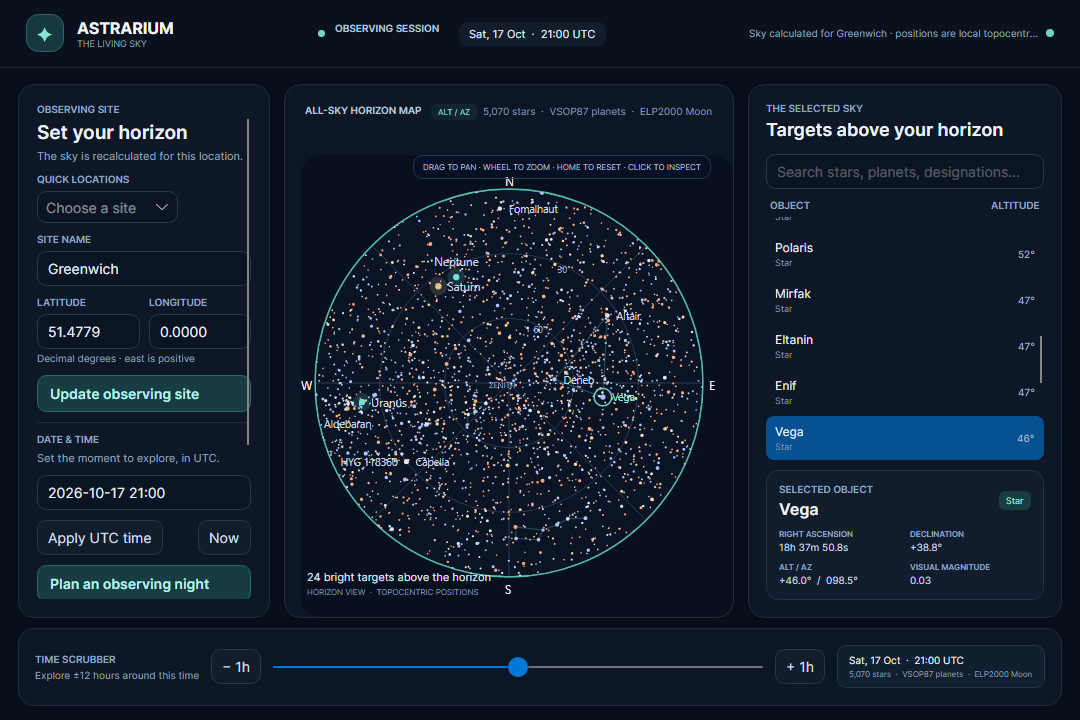
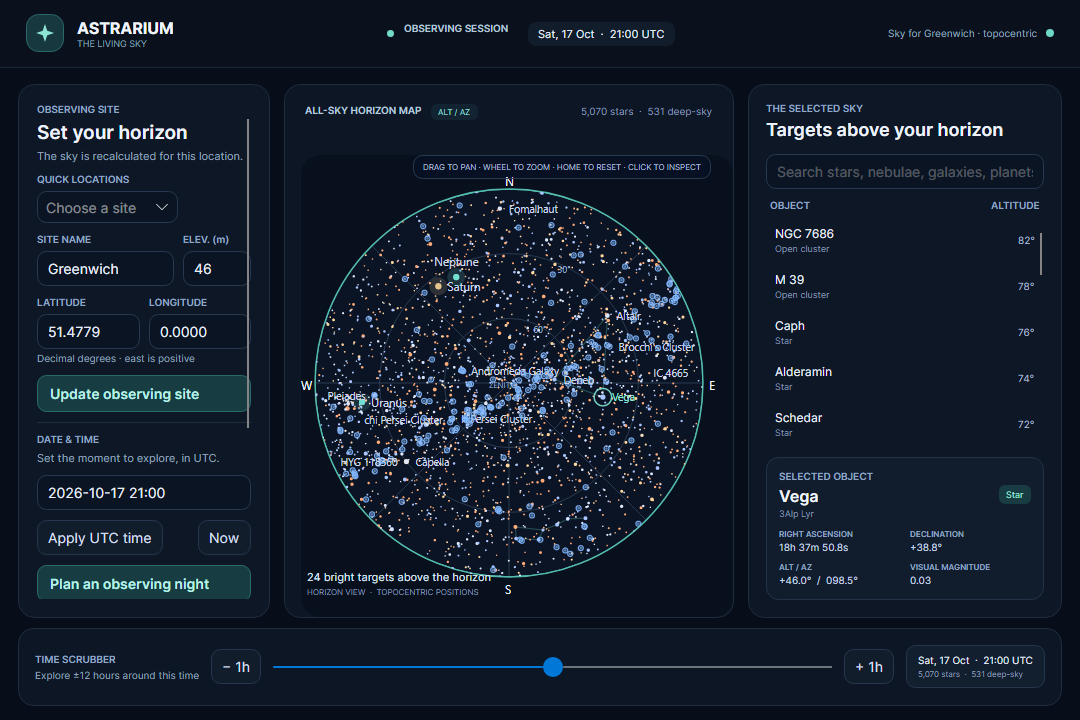
Publish Preview 10 migration evidence

diff --git a/README.md b/README.md
@@ -6,7 +6,7 @@ This repository contains a cross-platform Avalonia port of [Astrarium](https://g
 
 The observing workflow loads 5,070 naked-eye stars and 531 curated bright deep-sky objects, computes local sky positions with Astrarium's VSOP87/ELP2000 algorithms, and draws a horizon chart with featured asterisms and solar-system bodies. Search accepts common names and spaced or compact Messier, NGC, and IC designations. It supports quick sites or custom coordinates with elevation, UTC time changes, and persisted observer/time/layer choices, plus object selection, keyboard navigation, drag-to-pan, wheel zoom, Home reset, chart-layer toggles, and position details. Its observation planner searches a UTC observing window and reports astronomical darkness plus star, deep-sky, and solar-system target windows filtered by minimum altitude, Sun altitude, magnitude, and minimum duration; choosing a result jumps to that target's best sampled time. The deep-sky data is an offline, reproducibly curated OpenNGC subset under CC BY-SA 4.0; see [Data notices](docs/DATA_NOTICES.md).
 
-The current [Preview 9 release](https://github.com/shobhit1kapoor/astrarium-avalonia-port-challenge/releases/tag/v0.1.0-preview.9) packages the shared Avalonia desktop app and static WebAssembly host. Try the [live browser demo](https://shobhit1kapoor.github.io/astrarium-avalonia-port-challenge/); the downloadable browser build also works offline after download and keeps preferences in browser storage when available. Preview 9 was built from commit `29fe80c` and passed all 111 tests, self-contained publishing, and native-window launch checks on Windows x64, Linux x64, macOS Intel, and Apple silicon in [desktop CI run #39045408639](https://github.com/shobhit1kapoor/astrarium-avalonia-port-challenge/actions/runs/39045408639). The WebAssembly site passed its separate build and package checks in [browser CI run #39045408637](https://github.com/shobhit1kapoor/astrarium-avalonia-port-challenge/actions/runs/39045408637), which deployed the public Pages demo from the same commit. The chart canvas has a browser-accessible name and interaction summary; WebAssembly still exposes the app as one canvas rather than separate browser controls. The current view includes custom observing-site elevation and a platform-consistent vector mark. Desktop CI uses hosted runners; macOS/Linux were not physically tested on local hardware.
+The current [Preview 10 release](https://github.com/shobhit1kapoor/astrarium-avalonia-port-challenge/releases/tag/v0.1.0-preview.10) packages the shared Avalonia desktop app and static WebAssembly host, including 531 curated deep-sky objects in search, the horizon chart, and the observing planner. It was built from commit `c498c2b`. All 115 tests pass locally in Debug and Release, and the isolated Release build completes with zero warnings or errors. [Desktop CI run #39070451360](https://github.com/shobhit1kapoor/astrarium-avalonia-port-challenge/actions/runs/39070451360) passed the solution tests, self-contained publishing, and native-window launch checks on Windows x64, Linux x64, macOS Intel, and Apple silicon. [Browser CI run #39070451439](https://github.com/shobhit1kapoor/astrarium-avalonia-port-challenge/actions/runs/39070451439) passed the WebAssembly build, packaging, and Pages deployment. The [live browser demo](https://shobhit1kapoor.github.io/astrarium-avalonia-port-challenge/) was checked on this release: its catalog count, M31 search/Andromeda selection, and planner view work. The chart canvas has a browser-accessible name and interaction summary; WebAssembly still exposes the app as one canvas rather than separate browser controls. Desktop CI uses hosted runners; macOS/Linux were not physically tested on local hardware.
 
 ## Download and run
 
@@ -14,13 +14,13 @@ The desktop archives are self-contained .NET 10 builds; no .NET installation is 
 
 | Platform | Download | Launch |
 | --- | --- | --- |
-| Windows x64 | [astrarium-windows-x64.tar.gz](https://github.com/shobhit1kapoor/astrarium-avalonia-port-challenge/releases/download/v0.1.0-preview.9/astrarium-windows-x64.tar.gz) | `Astrarium.Avalonia.exe` |
-| Linux x64 | [astrarium-linux-x64.tar.gz](https://github.com/shobhit1kapoor/astrarium-avalonia-port-challenge/releases/download/v0.1.0-preview.9/astrarium-linux-x64.tar.gz) | `./Astrarium.Avalonia` in a desktop session |
-| macOS Intel | [astrarium-macos-x64.tar.gz](https://github.com/shobhit1kapoor/astrarium-avalonia-port-challenge/releases/download/v0.1.0-preview.9/astrarium-macos-x64.tar.gz) | `./Astrarium.Avalonia` |
-| macOS Apple silicon | [astrarium-macos-arm64.tar.gz](https://github.com/shobhit1kapoor/astrarium-avalonia-port-challenge/releases/download/v0.1.0-preview.9/astrarium-macos-arm64.tar.gz) | `./Astrarium.Avalonia` |
-| Browser (WebAssembly) | [astrarium-browser-wasm.tar.gz](https://github.com/shobhit1kapoor/astrarium-avalonia-port-challenge/releases/download/v0.1.0-preview.9/astrarium-browser-wasm.tar.gz) | Serve extracted files over HTTP, then open in a WebAssembly-capable browser |
+| Windows x64 | [astrarium-windows-x64.tar.gz](https://github.com/shobhit1kapoor/astrarium-avalonia-port-challenge/releases/download/v0.1.0-preview.10/astrarium-windows-x64.tar.gz) | `Astrarium.Avalonia.exe` |
+| Linux x64 | [astrarium-linux-x64.tar.gz](https://github.com/shobhit1kapoor/astrarium-avalonia-port-challenge/releases/download/v0.1.0-preview.10/astrarium-linux-x64.tar.gz) | `./Astrarium.Avalonia` in a desktop session |
+| macOS Intel | [astrarium-macos-x64.tar.gz](https://github.com/shobhit1kapoor/astrarium-avalonia-port-challenge/releases/download/v0.1.0-preview.10/astrarium-macos-x64.tar.gz) | `./Astrarium.Avalonia` |
+| macOS Apple silicon | [astrarium-macos-arm64.tar.gz](https://github.com/shobhit1kapoor/astrarium-avalonia-port-challenge/releases/download/v0.1.0-preview.10/astrarium-macos-arm64.tar.gz) | `./Astrarium.Avalonia` |
+| Browser (WebAssembly) | [astrarium-browser-wasm.tar.gz](https://github.com/shobhit1kapoor/astrarium-avalonia-port-challenge/releases/download/v0.1.0-preview.10/astrarium-browser-wasm.tar.gz) | Serve extracted files over HTTP, then open in a WebAssembly-capable browser |
 
-SHA-256 hashes for all five archives are in [`SHA256SUMS.txt`](https://github.com/shobhit1kapoor/astrarium-avalonia-port-challenge/releases/download/v0.1.0-preview.9/SHA256SUMS.txt). Desktop builds are portable archives rather than installers. The live demo and downloadable browser archive are static WebAssembly sites with no backend; the archive can also be served locally over HTTP.
+SHA-256 hashes for all five archives are in [`SHA256SUMS.txt`](https://github.com/shobhit1kapoor/astrarium-avalonia-port-challenge/releases/download/v0.1.0-preview.10/SHA256SUMS.txt). Desktop builds are portable archives rather than installers. The live demo and downloadable browser archive are static WebAssembly sites with no backend; the archive can also be served locally over HTTP.
 
 ## Try the observing flow
 
@@ -31,17 +31,17 @@ SHA-256 hashes for all five archives are in [`SHA256SUMS.txt`](https://github.co
 
 ## Before and after
 
-The original screenshot is linked from the pinned upstream repository revision; it is not copied into this repository. The Avalonia image is a deterministic render of the production main window at its 1,080 × 720 minimum logical size; the packaged Windows app was launched and reviewed separately.
+The original screenshot is linked from the pinned upstream repository revision; it is not copied into this repository. The Avalonia images are headless renders of the production main and planner windows at their 1,080 × 720 and 780 × 600 minimum logical sizes; the packaged Windows app was launched and reviewed separately.
 
 | Original Astrarium (WPF) | Astrarium for Avalonia |
 | --- | --- |
-| <img src="https://github.com/Astrarium/Astrarium/blob/75cbdda75b0e6a51bbf601d08ab89bc471e6038a/Screenshot.png?raw=true" alt="Original Astrarium screenshot" width="900"> | <img src="docs/images/astrarium-avalonia-current.png" alt="Astrarium Avalonia screenshot with the observing-night planner control" width="900"> |
+| <img src="https://github.com/Astrarium/Astrarium/blob/75cbdda75b0e6a51bbf601d08ab89bc471e6038a/Screenshot.png?raw=true" alt="Original Astrarium screenshot" width="900"> | <img src="docs/images/astrarium-avalonia-current.png" alt="Astrarium Avalonia screenshot with a curated deep-sky catalog and observing-night planner" width="900"> |
 
 ### Observation planner
 
 The Avalonia planner carries over the upstream planner's central observing filters for the objects included in this port. Plan times are UTC. The current implementation samples the calculated sky every 10 minutes by default and linearly interpolates window edges, so event times are estimates at that resolution.
 
-<img src="docs/images/astrarium-avalonia-planner.jpg" alt="Astrarium observation planner with darkness and recommended target windows" width="900">
+<img src="docs/images/astrarium-avalonia-planner-current.png" alt="Astrarium observation planner with darkness and recommended target windows for deep-sky and solar-system objects" width="900">
 
 ## Migration report
 
@@ -53,7 +53,7 @@ The port preserves a useful observing loop—set a site and UTC time, inspect an
 
 ### Migration effort and cost
 
-This is a solo, AI-assisted port. The first public implementation commit was made at **11:57:17 UTC on October 17, 2026**. Preview 3 was published at **12:46:32 UTC** (49 minutes 15 seconds later), Preview 4 with the planner at **13:17:39 UTC** (1 hour 20 minutes 22 seconds later), Preview 5 at **13:54:05 UTC** (1 hour 56 minutes 48 seconds later), Preview 6 with the shared browser host at **14:38:08 UTC** (2 hours 40 minutes 51 seconds later), Preview 7 with the updated shared app and downloadable browser build at **14:52:50 UTC** (2 hours 55 minutes 33 seconds later), Preview 8 with custom site elevation at **15:16:56 UTC** (3 hours 19 minutes 39 seconds later), and Preview 9 with the browser chart's accessible name at **15:36:19 UTC** (3 hours 39 minutes 2 seconds later). These are elapsed wall-clock windows, not active person-hours; active hours were not tracked. No paid API, dataset, or commercial UI component is required. The app is offline by default and uses the upstream MIT algorithms plus the separately licensed HYG subset.
+This is a solo, AI-assisted port. The first public implementation commit was made at **11:57:17 UTC on October 17, 2026**. Preview 3 was published at **12:46:32 UTC** (49 minutes 15 seconds later), Preview 4 with the planner at **13:17:39 UTC** (1 hour 20 minutes 22 seconds later), Preview 5 at **13:54:05 UTC** (1 hour 56 minutes 48 seconds later), Preview 6 with the shared browser host at **14:38:08 UTC** (2 hours 40 minutes 51 seconds later), Preview 7 with the updated shared app and downloadable browser build at **14:52:50 UTC** (2 hours 55 minutes 33 seconds later), Preview 8 with custom site elevation at **15:16:56 UTC** (3 hours 19 minutes 39 seconds later), Preview 9 with the browser chart's accessible name at **15:36:19 UTC** (3 hours 39 minutes 2 seconds later), and Preview 10 with the curated deep-sky catalog at **21:25:19 UTC** (9 hours 28 minutes 2 seconds later). These are elapsed wall-clock windows, not active person-hours; active hours were not tracked. No paid API, dataset, or commercial UI component is required. The app is offline by default and uses the upstream MIT algorithms plus separately licensed HYG and OpenNGC subsets.
 
 ### What was harder than expected
 
@@ -68,7 +68,7 @@ This is a solo, AI-assisted port. The first public implementation commit was mad
 
 ### Current limits
 
-This port includes 5,070 naked-eye stars, 531 curated bright deep-sky objects, the Sun, Moon, and seven planets, but not the full upstream object/plugin catalog. The planner includes deep-sky targets and does not yet model object-specific observing constraints, Moon separation, weather, saved/imported plans, or telescope integration. It uses 10-minute default samples with linear boundary interpolation. The chart uses a custom polar horizon projection with a few featured asterisms; deep-sky marker extents are visual approximations. The browser version is a static WebAssembly site with no backend or server-side state, available as a hosted Pages demo and a downloadable package. Its renderer exposes one canvas in the browser accessibility tree; Preview 9 names that canvas and summarizes its interactions, but individual chart controls are not exposed as separate browser controls. Desktop Avalonia control names are covered by UI tests; no physical screen-reader session is claimed. The Windows app and both planner/main windows have been visually exercised locally, including their declared minimum dimensions at the host's default display scale. Linux/macOS launch checks are runner-based, and no physical test devices for those systems are claimed.
+This port includes 5,070 naked-eye stars, 531 curated bright deep-sky objects, the Sun, Moon, and seven planets, but not the full upstream object/plugin catalog. The planner includes deep-sky targets and does not yet model object-specific observing constraints, Moon separation, weather, saved/imported plans, or telescope integration. It uses 10-minute default samples with linear boundary interpolation. The chart uses a custom polar horizon projection with a few featured asterisms; deep-sky marker extents are visual approximations. The browser version is a static WebAssembly site with no backend or server-side state, available as a hosted Pages demo and a downloadable package. Its renderer exposes one named canvas with an interaction summary; individual chart controls are not exposed as separate browser controls. Desktop Avalonia control names are covered by UI tests; no physical screen-reader session is claimed. The Windows app and both planner/main windows have been visually exercised locally, including their declared minimum dimensions at the host's default display scale. Linux/macOS launch checks are runner-based, and no physical test devices for those systems are claimed.
 
 ## Run from source
 
@@ -84,9 +84,9 @@ Install the .NET 10 SDK, then run `dotnet run --project src/Astrarium.Avalonia/A
 
 ## Verification so far
 
-- Preview 9's exact four desktop archives passed all 111 tests, self-contained publishing, packaging, and `Window.Opened` checks on `win-x64`, `linux-x64`, `osx-x64`, and `osx-arm64` in [desktop CI run #39045408639](https://github.com/shobhit1kapoor/astrarium-avalonia-port-challenge/actions/runs/39045408639). Those artifacts are published in [Preview 9](https://github.com/shobhit1kapoor/astrarium-avalonia-port-challenge/releases/tag/v0.1.0-preview.9).
-- The separate browser workflow installs the WebAssembly workload, publishes Avalonia with native Skia rendering assets, checks the static output, packages the site, and deploys Pages in [run #39045408637](https://github.com/shobhit1kapoor/astrarium-avalonia-port-challenge/actions/runs/39045408637). The deployed chart canvas has a descriptive accessibility name; the tree still represents the app as one canvas rather than separate browser controls.
-- SHA-256 digests reported by the GitHub release service for all five Preview 9 archives match the published [`SHA256SUMS.txt`](https://github.com/shobhit1kapoor/astrarium-avalonia-port-challenge/releases/download/v0.1.0-preview.9/SHA256SUMS.txt). The [hosted browser demo](https://shobhit1kapoor.github.io/astrarium-avalonia-port-challenge/) is deployed from `main` and uses the same application source as Preview 9.
+- Preview 10's exact four desktop archives passed all 115 tests, self-contained publishing, packaging, and `Window.Opened` checks on `win-x64`, `linux-x64`, `osx-x64`, and `osx-arm64` in [desktop CI run #39070451360](https://github.com/shobhit1kapoor/astrarium-avalonia-port-challenge/actions/runs/39070451360). Those artifacts are published in [Preview 10](https://github.com/shobhit1kapoor/astrarium-avalonia-port-challenge/releases/tag/v0.1.0-preview.10) from source commit `c498c2b`.
+- The separate browser workflow installed the WebAssembly workload, published Avalonia with native Skia rendering assets, checked the static output, packaged the site, and deployed Pages in [run #39070451439](https://github.com/shobhit1kapoor/astrarium-avalonia-port-challenge/actions/runs/39070451439). The hosted build was manually checked for the 531-object count, M31 search/selection, and planner view; the accessibility tree still exposes a named canvas rather than separate browser controls.
+- SHA-256 digests reported by the GitHub release service for all five Preview 10 archives match the published [`SHA256SUMS.txt`](https://github.com/shobhit1kapoor/astrarium-avalonia-port-challenge/releases/download/v0.1.0-preview.10/SHA256SUMS.txt). The [hosted browser demo](https://shobhit1kapoor.github.io/astrarium-avalonia-port-challenge/) is deployed from `main` and uses the same observing workflow as Preview 10.
 - The actual main and planner windows are rendered at 100%, 125%, 150%, and 200% with Avalonia's headless platform at their minimum logical sizes. The main window is also checked at its 1,500 × 960 default logical size. Tests check accessible names on interactive fields and lists, finite layout bounds, stable logical client sizes, and raster dimensions that track the requested scale; captures at fractional and 200% scales were visually reviewed. This simulates Avalonia scaling and does not verify native Windows monitor changes.
 - The packaged Windows x64 Preview 4 app and planner opened locally. The planner generated darkness and target windows, and a recommendation returned to the chart at its best sampled UTC time. Minimum dimensions were reviewed for the 1,080 × 720 main window and 780 × 600 planner. Search, empty search, map/list selection, arrow navigation, pan, zoom, and reset were checked on the Windows host. Preview 5 carries the added accessibility names and passed the hosted Windows window-open check.
 - Linux and macOS launch checks are hosted-runner-only; no physical devices are claimed. Native Windows monitor scaling has not been checked.

diff --git a/docs/ASTRARIUM_PORT_PLAN.md b/docs/ASTRARIUM_PORT_PLAN.md
@@ -20,9 +20,9 @@ The challenge announcement says the same codebase on Windows, macOS, and Linux i
 
 ## Baseline at the end of October 17
 
-**Implemented:** separate portable algorithm, core, and Avalonia UI projects; bundled licensed HYG magnitude-6 subset; actual topocentric positions for 5,070 stars, Sun, Moon, and seven planets; a polar horizon chart with featured asterisms, collision-aware labels, compass rotation, drag pan, wheel zoom, and Home reset; location presets plus custom latitude, longitude, and elevation entry; UTC date/time and 24-hour scrubber; search with an explicit empty state; object selection and position details; keyboard arrow navigation; separate star/asterism/body chart layers; and atomic, versioned local persistence for observer site, UTC time, and layer visibility. Preferences use required JSON fields, a bounded read, a safe fallback for damaged files, and a durable temporary-file replacement. The restored observation planner reports astronomical-darkness intervals and target windows filtered by minimum altitude, maximum Sun altitude, magnitude, and minimum duration; a result returns to the chart at its best sampled instant. Planner windows use bounded time samples with linearly interpolated edges, not exact event solving. A manual close/relaunch check restored a custom Mauna Kea site, a changed UTC time, and a hidden-body layer. All 111 tests pass locally and on each hosted desktop runner, including headless layout renders of both production windows at scales 1.0, 1.25, 1.5, and 2.0, main-window layout checks at its 1,500 × 960 default size, and accessibility-name assertions for input, list, and chart controls; the solution builds with zero warnings/errors. The packaged Windows Release archive has been launched and visually reviewed.
+**Implemented:** separate portable algorithm, core, and Avalonia UI projects; bundled licensed HYG magnitude-6 subset; a reproducible 531-object OpenNGC deep-sky subset; actual topocentric positions for 5,070 stars, deep-sky objects, the Sun, Moon, and seven planets; a polar horizon chart with featured asterisms, collision-aware labels, compass rotation, drag pan, wheel zoom, and Home reset; location presets plus custom latitude, longitude, and elevation entry; UTC date/time and 24-hour scrubber; search with an explicit empty state and compact catalog aliases; object selection and position details; keyboard arrow navigation; separate star/deep-sky/asterism/body chart layers; and atomic, versioned local persistence for observer site, UTC time, and layer visibility. Preferences use required JSON fields, a bounded read, a safe fallback for damaged files, and a durable temporary-file replacement. The observing planner reports astronomical-darkness intervals and star, deep-sky, and solar-system target windows filtered by minimum altitude, maximum Sun altitude, magnitude, and minimum duration; a result returns to the chart at its best sampled instant. Planner windows use bounded time samples with linearly interpolated edges, not exact event solving. A manual close/relaunch check restored a custom Mauna Kea site, a changed UTC time, and a hidden-body layer. All 115 tests pass locally in Debug and Release and on each hosted desktop runner, including headless renders of both production windows at scales 1.0, 1.25, 1.5, and 2.0, main-window layout checks at its 1,500 × 960 default size, and visible-control accessibility-name assertions. The isolated Release build has zero warnings/errors; Preview 10 passes four-RID build, publish, and window-open checks. The packaged Windows Release archive has been launched and visually reviewed.
 
-**Still unproven or incomplete:** full upstream plugin/catalog parity, saved/imported observation plans, deep-sky targets, weather or Moon-separation scoring, browser screen-reader interaction beyond its named canvas, native Windows monitor-scale changes, and physical Linux/macOS device checks. Both windows were rendered through Avalonia headless at their declared minimum logical dimensions at 1.0, 1.25, 1.5, and 2.0 scaling; the 1.25 and 2.0 captures were visually reviewed. The main window is also layout-checked at its 1,500 × 960 default size. These renders do not validate actual monitor DPI behavior. Preview 9 source commit `29fe80c` passed all 111 tests, self-contained publishing, packaging, and actual `Window.Opened` checks on `win-x64`, `linux-x64`, `osx-x64`, and `osx-arm64` in [CI run #39045408639](https://github.com/shobhit1kapoor/astrarium-avalonia-port-challenge/actions/runs/39045408639); those exact packages are published in [Preview 9](https://github.com/shobhit1kapoor/astrarium-avalonia-port-challenge/releases/tag/v0.1.0-preview.9). The WebAssembly build and Pages deployment passed in [run #39045408637](https://github.com/shobhit1kapoor/astrarium-avalonia-port-challenge/actions/runs/39045408637), and the current hosted demo's chart → planner → chart flow has been exercised. The demo is static and has no backend. The packaged Windows Preview 4 app and planner were launched locally; later Windows and other OS checks are runner-based. Test counts do not establish astronomical accuracy for every object/date; the inherited low-accuracy Carrington fit has an explicit 2021 residual check.
+**Still unproven or incomplete:** full upstream plugin/catalog parity, saved/imported observation plans, weather or Moon-separation scoring, browser screen-reader interaction beyond its named canvas, native Windows monitor-scale changes, and physical Linux/macOS device checks. Both windows were rendered through Avalonia headless at their declared minimum logical dimensions at 1.0, 1.25, 1.5, and 2.0 scaling; the current production-window snapshots were visually reviewed. The main window is also layout-checked at its 1,500 × 960 default size. These renders do not validate actual monitor DPI behavior. Preview 10 source commit `c498c2b` passed all 115 tests, self-contained publishing, packaging, and actual `Window.Opened` checks on `win-x64`, `linux-x64`, `osx-x64`, and `osx-arm64` in [CI run #39070451360](https://github.com/shobhit1kapoor/astrarium-avalonia-port-challenge/actions/runs/39070451360); those exact packages are published in [Preview 10](https://github.com/shobhit1kapoor/astrarium-avalonia-port-challenge/releases/tag/v0.1.0-preview.10). The WebAssembly build and Pages deployment passed in [run #39070451439](https://github.com/shobhit1kapoor/astrarium-avalonia-port-challenge/actions/runs/39070451439). The current hosted demo's deep-sky search/selection and planner view have been exercised. The demo is static and has no backend. The packaged Windows Preview 4 app and planner were launched locally; later Windows and other OS checks are runner-based. Test counts do not establish astronomical accuracy for every object/date; the inherited low-accuracy Carrington fit has an explicit 2021 residual check.
 
 **Remaining checks:** verify native Windows monitor-scale behavior if the environment permits, and submit the completed entry before October 23. Both windows have minimum-size headless layout renders at common scales; native Windows and physical macOS/Linux device checks remain unverified, and runner-only evidence is labeled honestly.
 
@@ -80,10 +80,10 @@ The chart renderer is an Avalonia control that consumes immutable chart data fro
 
 | Date | Work | Exit evidence |
 |---|---|---|
-| Oct 17 | Finish the observing planner vertical slice, reconcile challenge criteria, review the current Windows UI, add scaled-layout/accessibility checks, and publish the current preview. | **Completed:** 111 tests locally and in the Preview 9 hosted matrix, zero-warning Release build, four-RID launch checks, Preview 9 artifacts/checksums, production-window screenshots, headless renders at four scales plus the main-window default size, and a hosted WebAssembly demo with a named chart canvas. |
+| Oct 17 | Finish the observing planner vertical slice, reconcile challenge criteria, review the current Windows UI, add scaled-layout/accessibility checks, and publish the current preview. | **Completed:** 115 tests pass locally in Debug and Release and in the Preview 10 desktop matrix; zero-warning Release build, four-RID launch checks, Preview 10 artifacts/checksums, refreshed production-window screenshots, headless renders at four scales plus the main-window default size, and a hosted WebAssembly demo with a named chart canvas and 531 deep-sky objects. |
 | Oct 18 | Check native Windows monitor scaling if the environment permits; review invalid/empty-plan behavior and accessibility; validate representative observing cases. | Findings fixed or recorded; simulated scale layout and default-scale dimensions remain verified. |
 | Oct 19 | Review astronomy boundary cases, chart projection, dates and locations; run a clean-checkout build and audit dependencies/data notices. | No blocker in the observing/planning workflow; all remaining accuracy limits stated. |
-| Oct 20 | Freeze features; inspect current release artifacts and README links from a clean download; prepare a short judge-facing demonstration. | Preview 9 binaries and hashes agree with app source commit `29fe80c`; README links, screenshots, migration details, and the hosted demo are current. |
+| Oct 20 | Freeze features; inspect current release artifacts and README links from a clean download; prepare a short judge-facing demonstration. | Preview 10 binaries and hashes agree with app source commit `c498c2b`; README links, screenshots, migration details, and the hosted demo are current. |
 | Oct 21 | Review the entry against all five judging dimensions; finalize concise migration account and gather missing form details. | Judge-facing evidence complete except final form submission. |
 | Oct 22 | Reserve time for the official submission form and handle any access or formatting issue; avoid unnecessary release churn. | Entry ready to submit, with a full day of contingency. |
 | Oct 23 | Submit the official entry with time reserved for form issues; stop feature work early enough to beat the 23:59 UTC cutoff. | Submission confirmation saved before deadline. |
@@ -105,7 +105,7 @@ The schedule is aggressive. If a release blocker appears, cut optional features 
 - [ ] Validate date/time timezone and location coordinate conventions; test representative northern and southern latitudes and dates.
 - [ ] Verify chart projection near the horizon/zenith and across angle wraparound.
 - [x] Verify search, selection, persistence, keyboard paths, and recovery from malformed location input.
-- [ ] Verify chart resize and the minimum window size at common non-default display scaling levels.
+- [x] Verify chart and planner layout bounds, stable logical sizes, and rendered frames at 100%, 125%, 150%, and 200% Avalonia headless scaling at their minimum logical sizes. Native per-monitor behavior remains a separate unchecked check.
 - [x] Build Windows, macOS, and Linux; launch the artifacts on hosted runners; record the runtime matrix and note that only Windows was also tested on a physical device.
 - [ ] Scan dependencies/assets and check all notices and license conditions.
 
@@ -115,5 +115,5 @@ The schedule is aggressive. If a release blocker appears, cut optional features 
 - [x] Migrated screenshots captured from the running Avalonia app and planner.
 - [x] README covers observed elapsed migration window, retained code, rewrites, surprises, compromises, platform differences, known limits, and build/run instructions.
 - [x] Public source repository and OSI-approved MIT code license.
-- [x] Downloadable builds for the current planner and custom-site-elevation source on each target OS, with checksums in [Preview 9](https://github.com/shobhit1kapoor/astrarium-avalonia-port-challenge/releases/tag/v0.1.0-preview.9).
+- [x] Downloadable builds for the current planner, custom-site-elevation, and deep-sky source on each target OS, with checksums in [Preview 10](https://github.com/shobhit1kapoor/astrarium-avalonia-port-challenge/releases/tag/v0.1.0-preview.10).
 - [ ] Official entry form submission confirmation.

diff --git a/docs/PORT_CHALLENGE_PLAN.md b/docs/PORT_CHALLENGE_PLAN.md
@@ -10,9 +10,9 @@ Deliver a credible, polished Avalonia port or rewrite of an application that exi
 - [x] Confirm the upstream MIT source license permits this open-source port; separately record the HYG catalog's CC BY-SA 4.0 obligations.
 - [x] Choose the open-source entry track.
 - [x] Keep the entry to one human contributor, within the three-person limit.
-- [x] Produce self-contained builds for Windows x64, Linux x64, macOS Intel, and macOS Apple silicon with the planner, custom site elevation, and accessible desktop control names in [Preview 9](https://github.com/shobhit1kapoor/astrarium-avalonia-port-challenge/releases/tag/v0.1.0-preview.9). Preview 9 passed 111 tests and native window-open checks on all four hosted runners; the Windows Preview 4 archive and planner were also launched and reviewed locally.
+- [x] Produce self-contained builds for Windows x64, Linux x64, macOS Intel, and macOS Apple silicon with the planner, custom site elevation, the curated deep-sky catalog, and accessible desktop control names in [Preview 10](https://github.com/shobhit1kapoor/astrarium-avalonia-port-challenge/releases/tag/v0.1.0-preview.10). Preview 10 passed all 115 tests and native window-open checks on all four hosted runners; the Windows app and both production windows were also reviewed locally.
 - [x] Add a separately built static WebAssembly host using the shared Avalonia UI, verify the sky/planner/recommendation flow, and deploy the app as a [public Pages demo](https://shobhit1kapoor.github.io/astrarium-avalonia-port-challenge/). The browser target supplements the desktop builds; it is static and has no backend.
-- [x] Capture before-and-after screenshots; the source screenshot is linked at the pinned upstream revision rather than redistributed, and the Avalonia image is a deterministic render of the production window. The packaged Windows app was separately launched and reviewed.
+- [x] Capture before-and-after screenshots; the source screenshot is linked at the pinned upstream revision rather than redistributed, and the Avalonia images are headless renders of the production main and planner windows. The packaged Windows app was separately launched and reviewed.
 - [x] Write a migration report covering elapsed release window and cost, what carried over, redesign, surprises, compromises, and runner-only platform checks; actively tracked person-hours were not recorded and are not claimed.
 - [ ] Submit through the [official entry form](https://docs.google.com/forms/d/e/1FAIpQLSfJsgz1HRHKsxH0yRnn2wcvbZ-tSkmnjDXxIhE5YjM1v3lVkg/viewform) before **2026-10-23 23:59 UTC** (**2026-10-23 18:59 America/Chicago**); retain the confirmation.
 
@@ -48,7 +48,7 @@ Working priorities:
 | Migration difficulty and completeness | The source targets .NET Framework 4.5.1 and couples WPF/WinForms UI to a plugin system. This port retargets and tests the astronomy algorithms, then rebuilds a recognizable observing workflow in Avalonia, including a portable planner and a licensed, curated deep-sky catalog. | The port is a complete observing slice, not a port of every plugin or the full upstream catalogs, telescope integration, satellite, or event workflows. |
 | Resulting application quality | Usable chart and planner, search by common and compact catalog names, star and deep-sky layers, target selection, keyboard navigation, pan/zoom/reset, persisted observer/time/layer preferences, accessible desktop control names, and an honest before/after comparison. The browser canvas has a descriptive name, and main/planner layouts are exercised at four simulated scale factors and two window sizes. | Deep-sky coverage is a curated bright subset and chart extents are illustrative; browser accessibility exposes one named canvas rather than individual controls; visual QA on physical hardware has been local Windows-only, and layout-scale simulation is not equivalent to native display testing. |
 | Cross-platform implementation | Shared Avalonia views compile and open on Windows x64, Linux x64, macOS Intel, and Apple silicon in hosted CI. A separate single-view WebAssembly host runs the same core observing flow from a static offline bundle and a public Pages demo. | macOS/Linux checks use hosted runners, not physical devices; the browser demo is static and has no backend. |
-| Engineering quality | 115 local tests (92 algorithm, 17 Core, 6 UI), a zero-warning isolated Release build, four-RID CI build/publish/window-open checks, separate WebAssembly packaging and Pages deployment, source-generated JSON metadata, explicit preference-storage boundary, reproducible catalog generators, license notices, and checksums for release archives. | The new catalog integration still needs the current source revision's desktop and WebAssembly CI matrix; CI and prior runner results do not prove every hardware/driver combination or upstream feature. |
+| Engineering quality | 115 local tests in Debug and Release (92 algorithm, 17 Core, 6 UI), a zero-warning isolated Release build, current four-RID CI build/publish/window-open checks, separate WebAssembly packaging and Pages deployment, source-generated JSON metadata, explicit preference-storage boundary, reproducible catalog generators, license notices, and checksums for release archives. | CI does not prove every hardware/driver combination or full upstream plugin/catalog parity. |
 | Usefulness of the migration write-up | README and linked migration notes cover the source boundary, separate HYG/OpenNGC licenses, the reproducible deep-sky data transform, elapsed release timeline, costs, surprises, compromises, test evidence, builds, and deferred work. | Wall-clock release intervals are available; active person-hours were not tracked and are not claimed. |
 
 The official challenge lists Best Cross-Platform Port, Best Legacy Revival, Best Everyday Tool, and Best IT Pro Tool. Astrarium most directly fits Legacy Revival and Cross-Platform Port; it is a less direct fit for Everyday Tool and is not positioned as an IT Pro tool. The official announcement says mobile/WebAssembly can receive additional recognition, after desktop quality is established. This entry therefore keeps the four desktop targets as the baseline and includes WebAssembly as a verified extra.
@@ -64,11 +64,11 @@ Astrarium is the selected **open-source** submission, targeting **Best Legacy Re
 - [x] Re-run the 109-test four-RID matrix on follow-up test/evidence commit `b17e3db` after adding the default-size layout check and refreshing judging evidence ([run #39039239143](https://github.com/shobhit1kapoor/astrarium-avalonia-port-challenge/actions/runs/39039239143)).
 - [x] Pass all 109 tests, self-contained publishing, packaging, and window-open checks for all four RIDs on Preview 7 source commit `fa82fc2` ([run #39041985725](https://github.com/shobhit1kapoor/astrarium-avalonia-port-challenge/actions/runs/39041985725)).
 - [x] Build the browser target with native Skia/WebAssembly assets, verify static output, package it as a site, then run the downloaded artifact and hosted Pages demo in a browser and exercise the chart → planner → chart flow ([Preview 7 artifact run #39041985734](https://github.com/shobhit1kapoor/astrarium-avalonia-port-challenge/actions/runs/39041985734); [Pages deployment #39042339405](https://github.com/shobhit1kapoor/astrarium-avalonia-port-challenge/actions/runs/39042339405)).
-- [x] Publish the current source commit `29fe80c` after all 111 tests, four desktop publish/open checks, and the WebAssembly build and Pages deployment passed ([desktop run #39045408639](https://github.com/shobhit1kapoor/astrarium-avalonia-port-challenge/actions/runs/39045408639); [browser run #39045408637](https://github.com/shobhit1kapoor/astrarium-avalonia-port-challenge/actions/runs/39045408637)). The five released archive digests match GitHub's asset digests in [Preview 9](https://github.com/shobhit1kapoor/astrarium-avalonia-port-challenge/releases/tag/v0.1.0-preview.9).
+- [x] Publish source commit `c498c2b` with the curated deep-sky catalog after all 115 tests, four desktop publish/open checks, and the WebAssembly build and Pages deployment passed ([desktop run #39070451360](https://github.com/shobhit1kapoor/astrarium-avalonia-port-challenge/actions/runs/39070451360); [browser run #39070451439](https://github.com/shobhit1kapoor/astrarium-avalonia-port-challenge/actions/runs/39070451439)). The five released archive digests match GitHub's asset digests in [Preview 10](https://github.com/shobhit1kapoor/astrarium-avalonia-port-challenge/releases/tag/v0.1.0-preview.10).
 - [x] Render the production main and planner windows at 100%, 125%, 150%, and 200% Avalonia headless scaling at their minimum logical sizes; assert accessible names, finite bounds, stable logical sizes, and matching raster dimensions. This is simulated layout evidence; native display-scale behavior remains unchecked.
 - [x] Review the current observing flow at the minimum window size on Windows; keyboard navigation, search, map selection, panning, zoom, reset, and planner scrolling have been checked. The review used the host's default display scale.
-- [x] Publish judge-downloadable release builds for each target OS and the static browser site. The public MIT source repository is available at [shobhit1kapoor/astrarium-avalonia-port-challenge](https://github.com/shobhit1kapoor/astrarium-avalonia-port-challenge); current published binaries are in [Preview 9](https://github.com/shobhit1kapoor/astrarium-avalonia-port-challenge/releases/tag/v0.1.0-preview.9), with SHA-256 checksums for all five archives. The [hosted Pages demo](https://shobhit1kapoor.github.io/astrarium-avalonia-port-challenge/) was deployed and exercised on the latest source.
+- [x] Publish judge-downloadable release builds for each target OS and the static browser site. The public MIT source repository is available at [shobhit1kapoor/astrarium-avalonia-port-challenge](https://github.com/shobhit1kapoor/astrarium-avalonia-port-challenge); current published binaries are in [Preview 10](https://github.com/shobhit1kapoor/astrarium-avalonia-port-challenge/releases/tag/v0.1.0-preview.10), with SHA-256 checksums for all five archives. The [hosted Pages demo](https://shobhit1kapoor.github.io/astrarium-avalonia-port-challenge/) was deployed and exercised on the latest source.
 - [x] Finish the honest README migration report with observed elapsed engineering time, migration cost, and remaining limits.
-- [ ] Publish the curated deep-sky catalog integration after current-source desktop and WebAssembly CI, then refresh the judge-facing screenshots and release evidence.
+- [x] Publish the curated deep-sky catalog integration after current-source desktop and WebAssembly CI, then refresh the judge-facing screenshots and release evidence in Preview 10.
 - [ ] Verify the current-source build at native non-default Windows monitor scaling if the environment permits.
 - [ ] Submit through the official form before the deadline and save the confirmation.

diff --git a/docs/ASTRARIUM_MIGRATION_BRIEF.md b/docs/ASTRARIUM_MIGRATION_BRIEF.md
@@ -48,7 +48,7 @@ This boundary prioritizes a coherent, accurate end-to-end app over a superficial
 
 ## Port verification and known algorithm limits
 
-The port currently runs 92 retained upstream algorithm tests, 17 focused core tests, and six Avalonia UI tests (115 total). The current source revision passes that local suite and a zero-warning isolated Release build. Preview 9 source commit `29fe80c` remains the latest published cross-platform release; the deep-sky changes still need the current desktop and WebAssembly CI checks before they can be described as verified on every target. The browser chart → planner → chart flow was exercised on Preview 9. Its accessibility tree exposes one named canvas rather than individual browser controls; desktop Avalonia control names are asserted by UI tests, but a physical screen-reader session is not claimed. The inherited refraction test was corrected to call the current `Flattening(h, P, T)` API without passing the solar diameter as atmospheric pressure. The legacy Carrington Fourier fit is retained unchanged, but its old reference test assumed agreement with the modern 2021 boundary to 0.02°; against the 2021 boundary now listed by the University of Maryland page, the inherited fit differs by about 0.0447°. The test records that actual legacy result and the README does not present the fit as modern precision. Both bundled catalogs are reproducible from their pinned sources and checked-in generators.
+The port runs 92 retained upstream algorithm tests, 17 focused core tests, and six Avalonia UI tests (115 total); all pass in local Debug and Release runs. The isolated Release build completes with zero warnings or errors. The two UI-render tests now await Avalonia dispatcher work and async session disposal, so their layout, accessible-name, and rendered-frame assertions execute before MSTest reports a pass. Preview 10 source commit `c498c2b` is the current published release and includes the deep-sky catalog; desktop CI passed on Windows x64, Linux x64, macOS Intel, and Apple silicon, while the WebAssembly build and Pages deployment passed separately. The hosted browser chart → planner flow was exercised with the 531-object count, M31 search and Andromeda selection, and planner view. Its accessibility tree exposes one named canvas rather than individual browser controls; desktop Avalonia control names are asserted by UI tests, but a physical screen-reader session is not claimed. The inherited refraction test was corrected to call the current `Flattening(h, P, T)` API without passing the solar diameter as atmospheric pressure. The legacy Carrington Fourier fit is retained unchanged, but its old reference test assumed agreement with the modern 2021 boundary to 0.02°; against the 2021 boundary now listed by the University of Maryland page, the inherited fit differs by about 0.0447°. The test records that actual legacy result and the README does not present the fit as modern precision. Both bundled catalogs are reproducible from their pinned sources and checked-in generators.
 
 ## Risks and feasibility
 
@@ -73,4 +73,4 @@ Six days is not enough to reproduce Astrarium's complete plugin ecosystem and ve
 
 **Boundary:** The entry does not claim full plugin parity. The released desktop builds implement the core location/time/sky-map/object-inspection and observing-planner workflows on Windows, macOS, and Linux. A shared WebAssembly host is also released as an extra target; it is a static site with no backend.
 
-**Status after Preview 9:** The published Preview 9 build documents its star catalog and source provenance; the current source also adds a curated, separately licensed deep-sky subset that is being verified for the next preview. The upstream algorithms are retargeted and validated; the planner's 10-minute sampling and interpolated-boundary limits are documented; before-and-after screenshots and downloadable Preview 9 builds are published. Remaining gaps include full upstream plugin/catalog parity, current-source cross-platform CI for the deep-sky feature, browser screen-reader interaction beyond the named canvas, native Windows monitor-scale changes, and physical Linux/macOS hardware validation. Hosted runner checks are not represented as physical-device testing.
+**Status after Preview 10:** The release contains the 5,070-star catalog and a curated 531-object OpenNGC deep-sky subset, with separate licenses, pinned source provenance, and a reproducible generator. The upstream algorithms are retargeted and validated; the planner's 10-minute sampling and interpolated-boundary limits are documented; updated before-and-after screenshots and downloadable Preview 10 builds are published. Remaining gaps include full upstream plugin/catalog parity, browser screen-reader interaction beyond the named canvas, native Windows monitor-scale changes, and physical Linux/macOS hardware validation. Hosted runner checks are not represented as physical-device testing.
